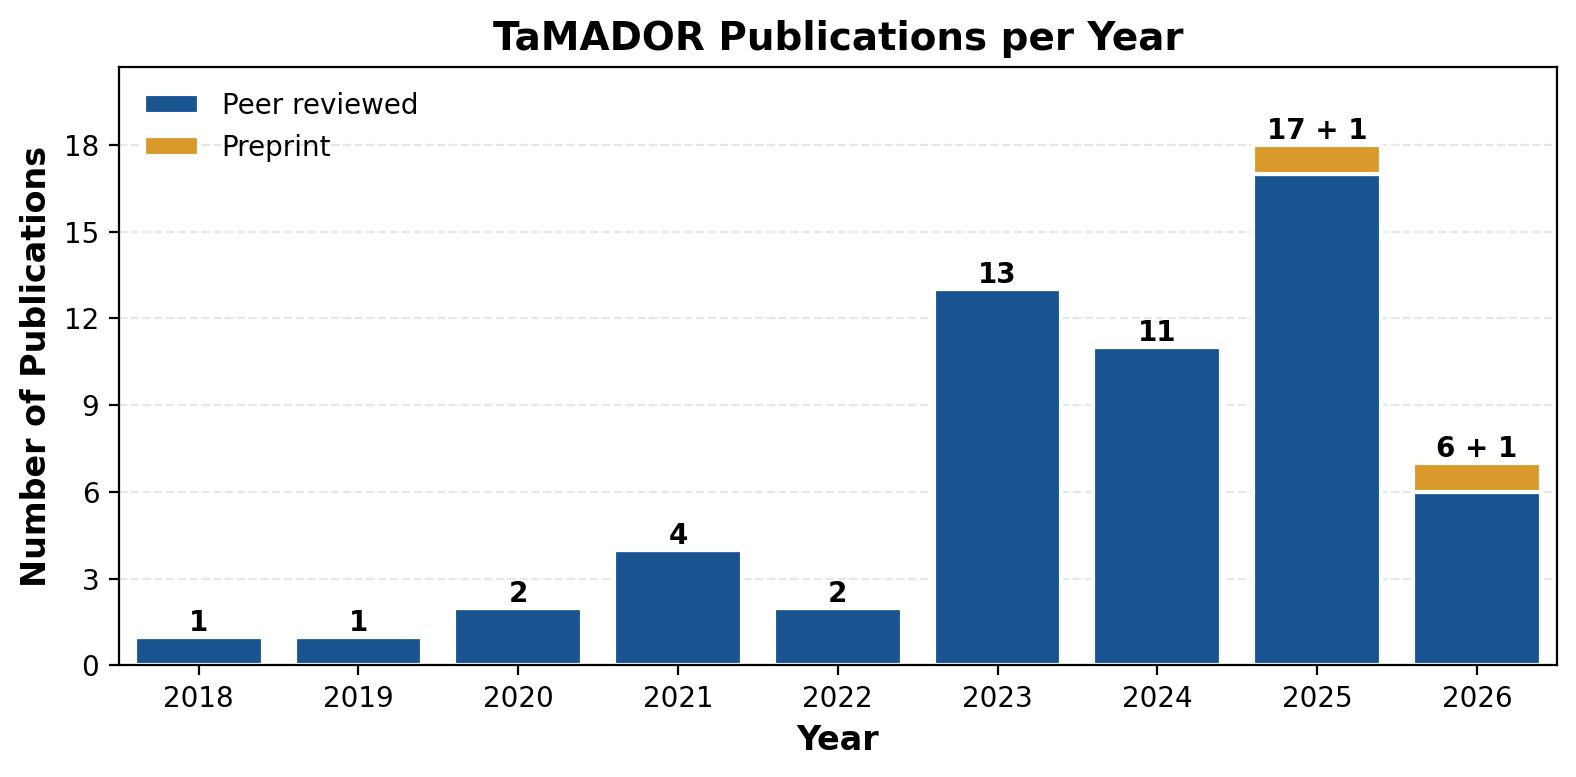
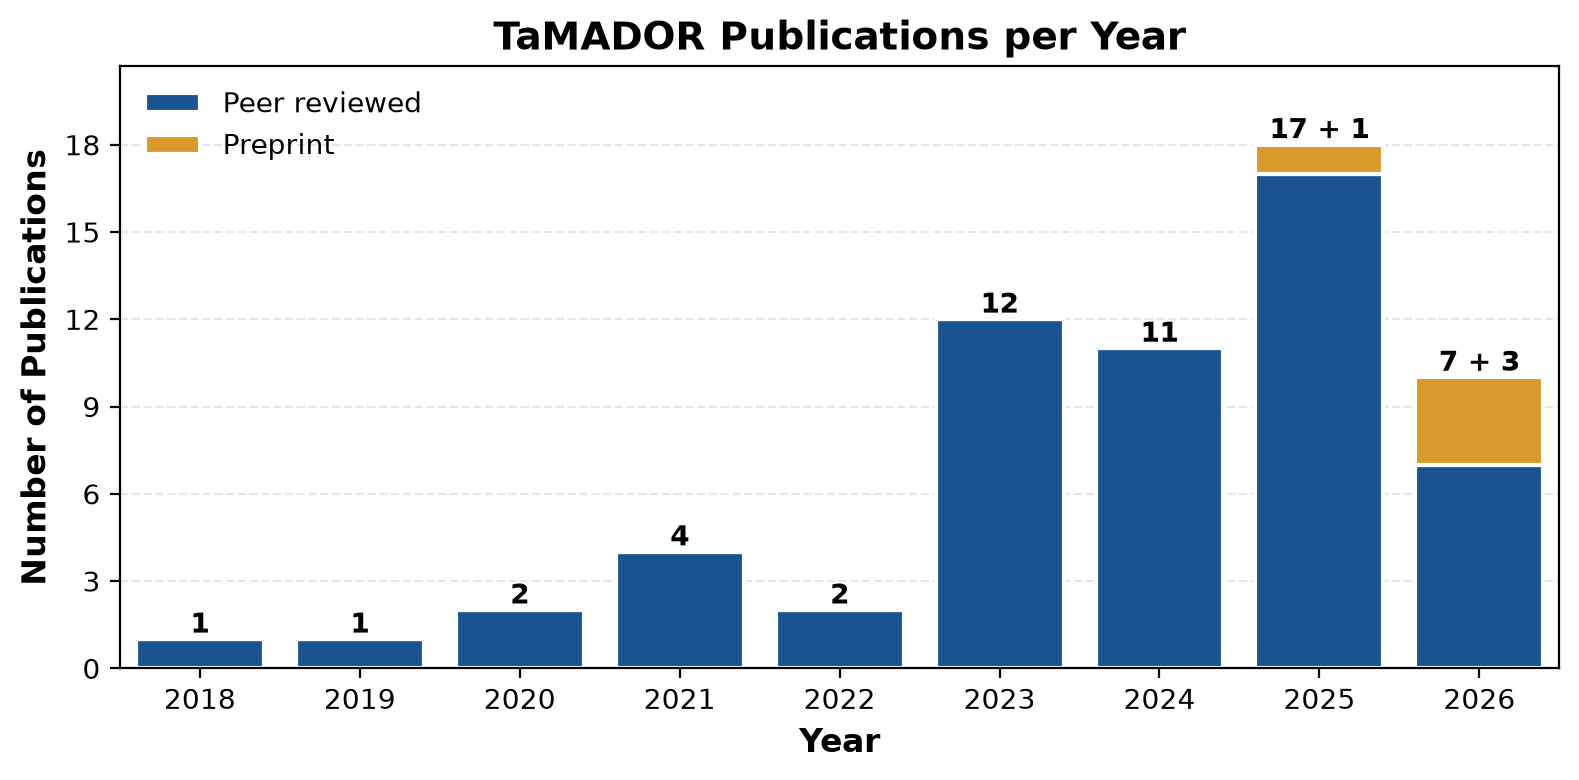
Refreshed the publication list and fixed the fetch script on Windows
The script now reads and writes publications.md as UTF-8, so non-ASCII
author names no longer crash it on Windows. Also mapped the bioRxiv
deep-learning peptide prioritization preprint to its JPR version, which
PubMed does not link.

diff --git a/scripts/fetch_publications.py b/scripts/fetch_publications.py
@@ -81,6 +81,10 @@ SUPERSEDED_PREPRINTS = {
     # was published as 'Enrichment of extracellular vesicles using Mag-Net for
     # the analysis of the plasma proteome' (Nat Commun 2025) after retitling.
     '38617345': '40595564',
+    # 'Prioritizing peptides for targeted mass spectrometry experiments using
+    # deep learning' (bioRxiv 2026) was published under the same title in
+    # J Proteome Res (2026), but PubMed records no UpdateIn between them.
+    '42244555': '42918136',
 }
 
 
@@ -329,7 +333,7 @@ def update_publications_file(publications):
 
     # Read the current file to preserve the header
     if PUBLICATIONS_FILE.exists():
-        content = PUBLICATIONS_FILE.read_text()
+        content = PUBLICATIONS_FILE.read_text(encoding='utf-8')
         # Find where the publication list starts (after the "---" separator)
         if '\n---\n' in content:
             header_parts = content.split('\n---\n', 2)
@@ -398,7 +402,7 @@ def update_publications_file(publications):
 
     # Combine and write
     new_content = header_content + pubs_section
-    PUBLICATIONS_FILE.write_text(new_content)
+    PUBLICATIONS_FILE.write_text(new_content, encoding='utf-8')
     print(f"Updated {PUBLICATIONS_FILE} with {total_pubs} publications across {len(sorted_years)} years")
     return True
 

diff --git a/publications.md b/publications.md
@@ -16,11 +16,21 @@ Publications from the TaMADOR consortium supported by:
 
 ![Publications per Year]({{ '/assets/images/publication-metrics.png' | relative_url }})
 
-*Last updated: September 11, 2026 — 57 peer-reviewed publications and 2 preprints awaiting peer review*
+*Last updated: October 25, 2026 — 57 peer-reviewed publications and 4 preprints awaiting peer review*
 
 ---
 
 <ul class="publication-list">
+
+<li class="publication-item">
+  <div class="publication-title">Prioritizing Peptides for Targeted Mass Spectrometry Experiments Using Deep Learning</div>
+  <div class="publication-authors">Sonthalia S, Wen B, Dasgupta P, Hsu C, MacCoss MJ, Noble WS</div>
+  <div class="publication-journal">Journal of proteome research, 2026</div>
+  <div class="publication-links">
+    <a href="https://pubmed.ncbi.nlm.nih.gov/42918136/"><span class="visually-hidden">Prioritizing Peptides for Targeted Mass Spectrometry Experiments Using Deep Learning: </span>PubMed</a>
+    <a href="https://doi.org/10.1021/acs.jproteome.6c00457"><span class="visually-hidden">Prioritizing Peptides for Targeted Mass Spectrometry Experiments Using Deep Learning: </span>DOI</a>
+  </div>
+</li>
 
 <li class="publication-item">
   <div class="publication-title">Hex-MASP for mapping the whole-tissue spatial proteome and the intrabrain distribution of monoclonal antibodies</div>
@@ -49,6 +59,26 @@ Publications from the TaMADOR consortium supported by:
   <div class="publication-links">
     <a href="https://pubmed.ncbi.nlm.nih.gov/42400596/"><span class="visually-hidden">Interlaboratory Comparison of a Glucagon and Oxyntomodulin Immuno-LC-MS/MS Assay: Implications for Diabetes Research: </span>PubMed</a>
     <a href="https://doi.org/10.1093/clinchem/hvag078"><span class="visually-hidden">Interlaboratory Comparison of a Glucagon and Oxyntomodulin Immuno-LC-MS/MS Assay: Implications for Diabetes Research: </span>DOI</a>
+  </div>
+</li>
+
+<li class="publication-item">
+  <div class="publication-title">Revisiting resonance-excitation collision-induced dissociation for data-independent acquisition</div>
+  <div class="publication-authors">Hsu C, Heil LR, Wen B, McAlister G, Merrihew G, Remes PM, Plubell DL, Melani R, Zabrouskov V, MacCoss MJ</div>
+  <div class="publication-journal">bioRxiv : the preprint server for biology, 2026 (preprint, not peer reviewed)</div>
+  <div class="publication-links">
+    <a href="https://pubmed.ncbi.nlm.nih.gov/42282639/"><span class="visually-hidden">Revisiting resonance-excitation collision-induced dissociation for data-independent acquisition: </span>PubMed</a>
+    <a href="https://doi.org/10.64898/2026.05.31.729078"><span class="visually-hidden">Revisiting resonance-excitation collision-induced dissociation for data-independent acquisition: </span>DOI</a>
+  </div>
+</li>
+
+<li class="publication-item">
+  <div class="publication-title">A multiplexed targeted mass spectrometric assay for quantifying obesity- associated biomarkers in human plasma</div>
+  <div class="publication-authors">Lin TT, Dakup P, Schepmoes AA, Fillmore TL, Swensen AC, Kelly SS, Zhang T, Pu J, Jacobs JM, DeLany JP, Goodpaster BH, Shi T, Qu J, Qian WJ</div>
+  <div class="publication-journal">Research square, 2026 (preprint, not peer reviewed)</div>
+  <div class="publication-links">
+    <a href="https://pubmed.ncbi.nlm.nih.gov/42239769/"><span class="visually-hidden">A multiplexed targeted mass spectrometric assay for quantifying obesity- associated biomarkers in human plasma: </span>PubMed</a>
+    <a href="https://doi.org/10.21203/rs.3.rs-9588456/v1"><span class="visually-hidden">A multiplexed targeted mass spectrometric assay for quantifying obesity- associated biomarkers in human plasma: </span>DOI</a>
   </div>
 </li>
 
@@ -379,16 +409,6 @@ Publications from the TaMADOR consortium supported by:
   <div class="publication-links">
     <a href="https://pubmed.ncbi.nlm.nih.gov/38109936/"><span class="visually-hidden">De novo design of high-affinity binders of bioactive helical peptides: </span>PubMed</a>
     <a href="https://doi.org/10.1038/s41586-023-06953-1"><span class="visually-hidden">De novo design of high-affinity binders of bioactive helical peptides: </span>DOI</a>
-  </div>
-</li>
-
-<li class="publication-item">
-  <div class="publication-title">Highly Reproducible Quantitative Proteomics Analysis of Pancreatic Cancer Cells Reveals Proteome-Level Effects of a Novel Combination Drug Therapy That Induces Cancer Cell Death via Metabolic Remodeling and Activation of the Extrinsic Apoptosis Pathway</div>
-  <div class="publication-authors">Rasam S, Lin Q, Shen S, Straubinger RM, Qu J</div>
-  <div class="publication-journal">Journal of proteome research, 2023</div>
-  <div class="publication-links">
-    <a href="https://pubmed.ncbi.nlm.nih.gov/37906173/"><span class="visually-hidden">Highly Reproducible Quantitative Proteomics Analysis of Pancreatic Cancer Cells Reveals Proteome-Level Effects of a Novel Combination Drug Therapy That Induces Cancer Cell Death via Metabolic Remodeling and Activation of the Extrinsic Apoptosis Pathway: </span>PubMed</a>
-    <a href="https://doi.org/10.1021/acs.jproteome.3c00463"><span class="visually-hidden">Highly Reproducible Quantitative Proteomics Analysis of Pancreatic Cancer Cells Reveals Proteome-Level Effects of a Novel Combination Drug Therapy That Induces Cancer Cell Death via Metabolic Remodeling and Activation of the Extrinsic Apoptosis Pathway: </span>DOI</a>
   </div>
 </li>
 
